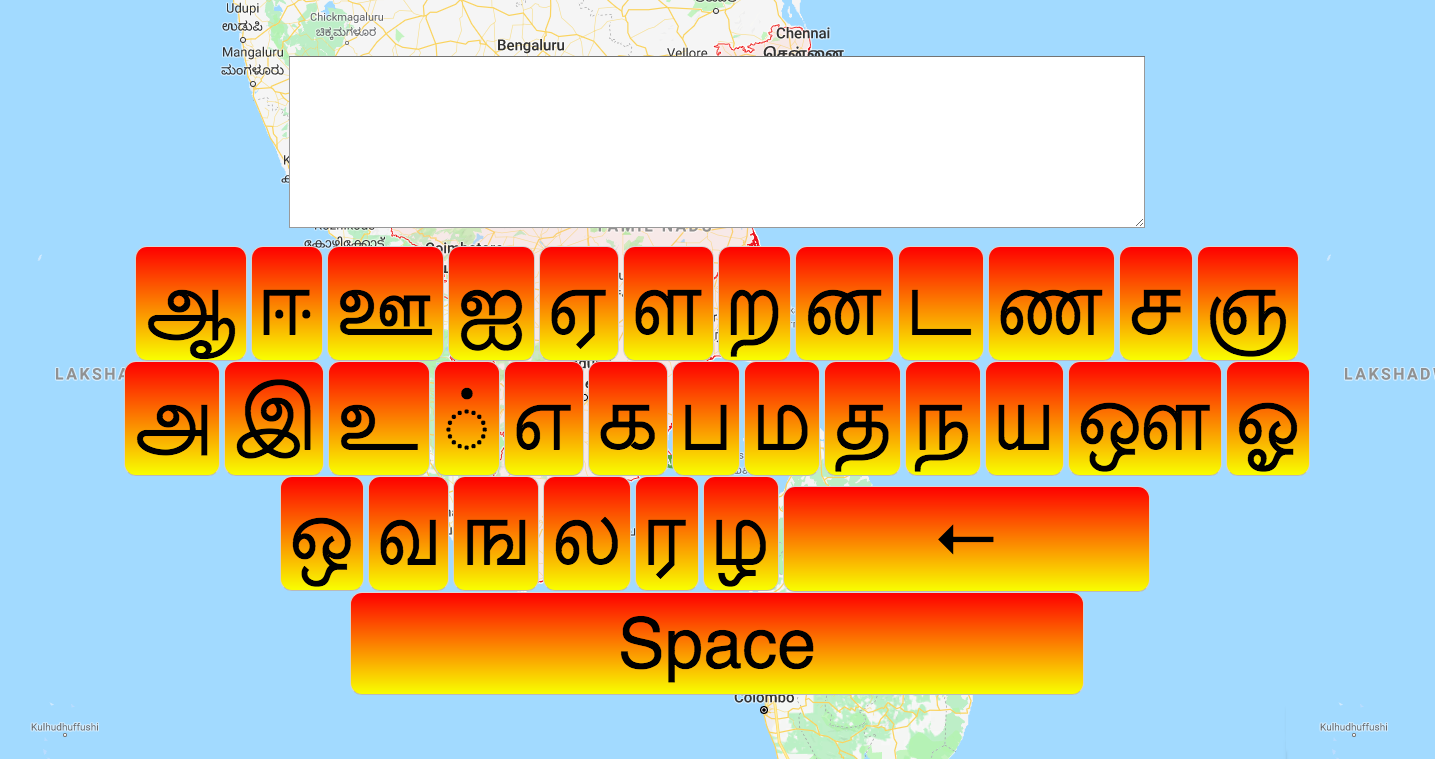
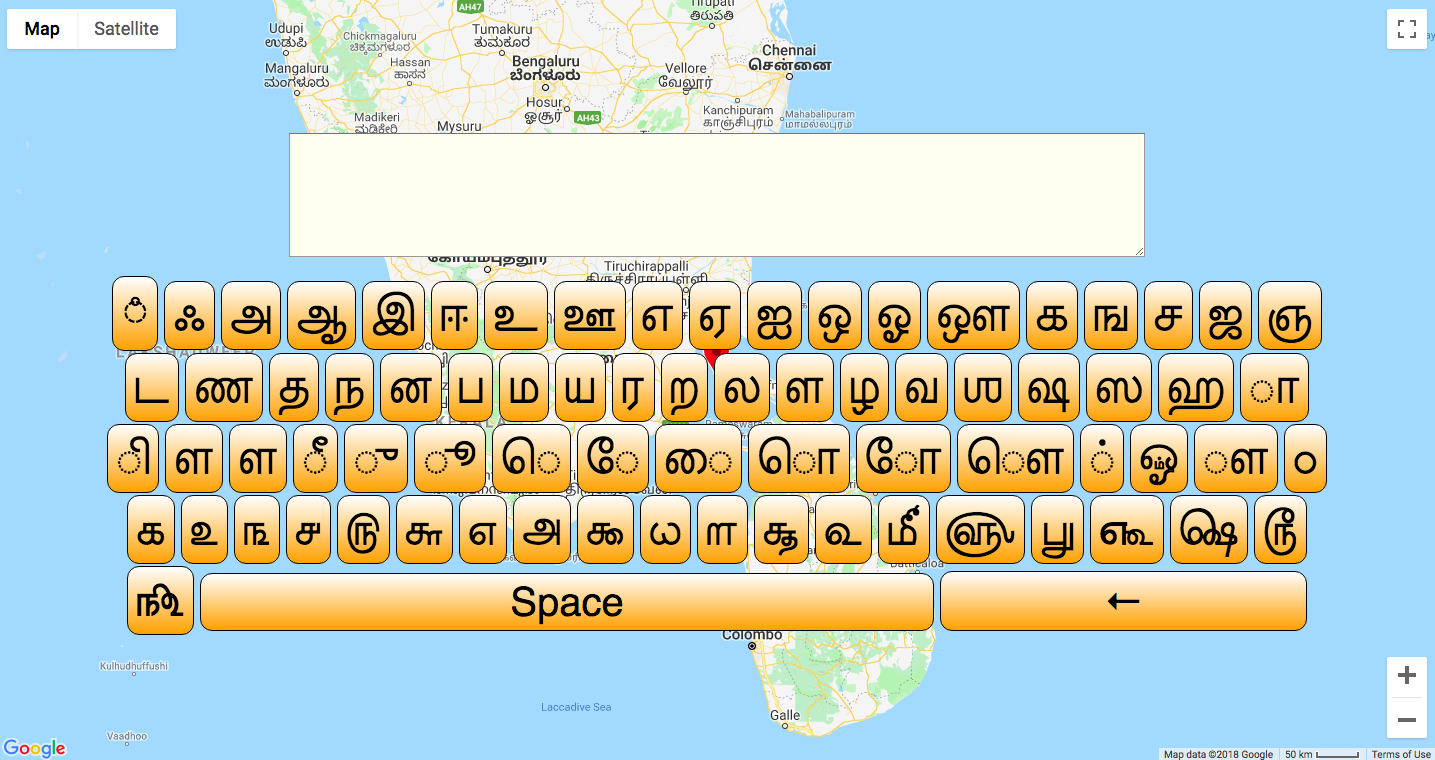
updated keyboard

diff --git a/stylesheet.css b/stylesheet.css
@@ -28,6 +28,7 @@ div {
 textarea {
 	width: 70%;
 	font-size: 50px;
+	background-color: #FFFFF0;
 }
 
 .special {
@@ -45,12 +46,12 @@ button {
 	font-size: 50px;
 	display: inline-block;
 	border-radius: 12px;
-	background-image: linear-gradient(red, yellow);
+	background-image: linear-gradient(white, orange);
 	border-color: black;
 	padding-bottom: 5px;
 	margin: 1px;
 }
 
 button:hover {
-    background-image: linear-gradient(red, green);
+    background-image: linear-gradient(red, yellow);
 }
